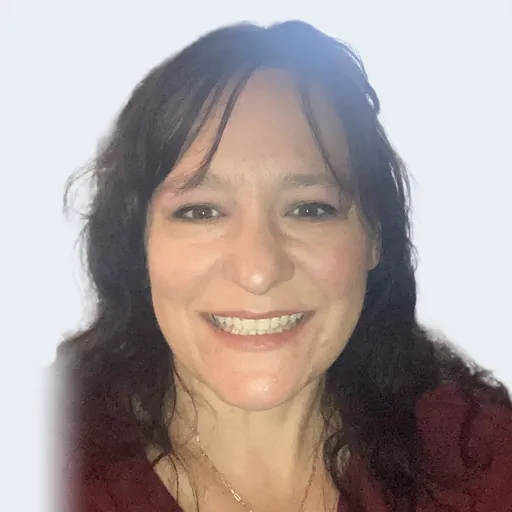
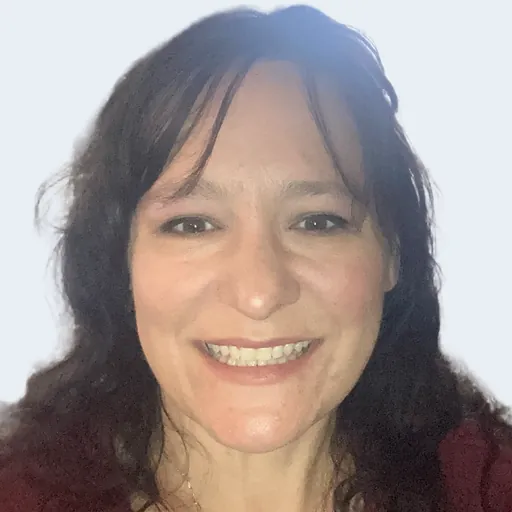
No headshot fades any more
Four tiles faded where their photographs stopped short of the framing.

- Allison's left edge, her jacket with a neighbour's hair behind it, is
  met above the chin and so is never stretched. A new rule, THE CROP,
  enlarges within the shared limit until the tile's own edge cuts it off:
  1.14x, inside what judges read as the same crop. It touches no one else.
- Byungyeon (1.54x, eye line 18% lower so his hair is not cut off),
  Nicolle (1.35x) and Ryan (1.55x) are too tight for the limit and are
  enlarged past it, by the client's choice of a larger face over a fade,
  shown side by side with a normally framed tile. They are listed in
  ENLARGED and come off it when looser photographs arrive.

Claude-Session: https://claude.ai/code/session_01XG348wN5ByY34urU5UZMf6

diff --git a/tools/cutout-headshots.py b/tools/cutout-headshots.py
@@ -93,10 +93,10 @@ had noticed. Checked since: inside every face keep, the stretched cut-out and th
 framing unstretched agree to under a pixel.
 
 A side is stretched, or reached for, only where the person meets it below the chin. A side
-met above the chin is hair, or someone standing beside them: Allison's photo has a
-neighbour's shoulder and hair at its left edge, which the matte keeps joined to Allison.
-Stretching that edge carried a strip of someone else's hair to the tile's edge, so it keeps
-the fade, as it always had.
+met above the chin is hair, or someone standing beside them: Allison's photo has her jacket
+at its left edge with a neighbour's hair behind it, which the matte keeps joined to her.
+Stretching that edge carried a strip of someone else's hair to the tile's edge, so such a
+side is never stretched; THE CROP below deals with it instead.
 
 THE REACH handles a photo that stops further in than the stretch can cover. Its eye line is
 lowered by up to REACH_DROP of the tile and its face enlarged by up to REACH_ZOOM, each by the
@@ -113,6 +113,13 @@ The limits were set by eye, on sheets of each person's options beside people fra
 normally, by independent judges looking at colour and duotone at 200 and 400px. Faces up to
 about 1.2x and eye lines up to 6% lower read as the same crop; 8% lower read as a sunken head,
 and 1.34x as a cramped passport photo with the crown cut off.
+
+THE CROP handles a side met above the chin that the photo's edge still cuts inside the tile.
+It is not stretched (see above), but enlarging alone can push that edge off the tile, where
+the tile's own edge cuts the figure, as it cuts everyone's shoulders. Within the same zoom
+limit, by the least that clears it. Allison's left edge, her jacket with a neighbour's hair
+behind it, faded until October 2026; at 1.14x it runs off the tile like anyone's shoulder.
+Removing the neighbour from the matte instead was tried, and left a hole where her arm was.
 
 THE HEADROOM keeps hair off the tile's top edge. At the shared framing a big head of hair
 can run right up to it: in September 2026 Katie's crown sat 0.3% of the tile below the top,
@@ -132,25 +139,29 @@ Where it landed in September 2026:
   tiles on the page;
 - lowered for the headroom alone: Katie's 3.4%, Angela's 3.0%, Laura's 2.8%, Nikki's 1.5%
   and Lisa's 0.5%.
-Byungyeon's is grounded the same way as Andrew's, but the passport photo cuts the shoulders
-18% in from both sides, and reaching them would take more than the limit, so the sides
-still fade. Andrew's and Byungyeon's crowns stop about 3% below the top rather than 4%: the
-reach and the headroom between them use the whole of REACH_DROP, and the report says so.
-Ryan's photo is cut at the hairline and across the chest, and cannot be grounded within
-the limits without stretching his chin, so it is left exactly as it was. A 1.29x framing
-that grounded him was preferred by every judge to the floating bust, but its stretch
-reached his jaw, and that is not a trade this makes on someone's face. In October 2026 his
-190px copy was replaced by Adelaide University's 540px, which is sharper but the same crop
-cut tighter, and fades the same way; filling the tile with it instead was offered and
-declined, since it makes his face about 1.6x everyone else's.
+Andrew's crown stops about 3% below the top rather than 4%: the reach and the headroom
+between them use the whole of REACH_DROP, and the report says so.
+
+THE EXCEPTIONS are three photographs too tight for any of this, each enlarged past the limit
+because the client chose a larger face over a fade (October 2026), with the trade shown on a
+sheet beside a normally framed tile:
+- Byungyeon's passport photo cuts the shoulders 18% in from both sides: 1.54x, with the eye
+  line 18% lower so the tile does not cut off his hair.
+- Nicolle's selfie cuts through her hair at the left, which THE CROP clears at 1.35x.
+- Ryan's is cut at the hairline and across the chest: 1.55x. A 1.29x framing that grounded
+  him by stretching reached his jaw, which is not a trade this makes on someone's face;
+  enlarging stretches nothing. (Filling the tile this way was declined once, before the
+  fades were weighed against it.)
+Each is listed in ENLARGED, and a looser photograph makes its entry unnecessary.
 
 THE EDGE FADE is what is left: wherever a photograph's own edge still cuts through the
 person, the figure fades to nothing over EDGE_FADE as it approaches that cut. The fade is
 measured from the cut itself — the stretch of the border the matte actually touches — not
 from the whole edge, so a photo cut at the shoulder does not also fade the cheek above it.
 Before the stretch and the reach, nine photos faded like this, and they looked different
-from everyone else. Four still do: Ryan's, Byungyeon's sides, Allison's left edge, and
-Nicolle's (October 2026), whose selfie cuts through her hair at the left. Two shared fades were tried to hide that, and both went:
+from everyone else. Since October 2026 none does: Allison's is cropped, and Byungyeon's,
+Nicolle's and Ryan's are THE EXCEPTIONS. Before that, two shared fades were tried to hide
+the fading few, and both went:
 - A single vignette tuned so every one of those cuts fell where it had already faded
   out. Ryan's chest and Byungyeon's shoulders force it to finish just below everybody's
   chin, which kept 4-13% of anyone's shoulders — 24 floating heads, with the curve cutting
@@ -158,7 +169,7 @@ Nicolle's (October 2026), whose selfie cuts through her hair at the left. Two sh
 - A soft U at the shoulders for everyone, on top of the edge fade. It shipped briefly in
   September 2026. A feather below the shoulders reads as a floating bust, and on the
   seventeen photos that are not cropped short it was a fade with nothing to hide.
-Better originals remain the real fix for everyone the reach enlarges or leaves fading, and
+Better originals remain the real fix for everyone the reach enlarges or crops, and
 nothing here needs to change when they arrive: a photograph loose enough for the framing
 is not touched by any of this. The report names every edge still fading.
 
@@ -199,6 +210,15 @@ FACE_KEEP = 0.10  # THE FACE KEEP: the face box grown by this much of its size o
 REACH_DROP = 0.06 # THE REACH's limits: how far below EYE an eye line may be lowered, as a
 REACH_ZOOM = 1.25 # fraction of the tile, and how much larger than FACE a face may be made
 HEADROOM = 0.04   # THE HEADROOM: the least room between the crown and the tile's top edge
+
+# THE EXCEPTIONS: faces enlarged past REACH_ZOOM, each by the client's choice (Brendan,
+# 6 October 2026), because the fade these photographs otherwise need was judged worse than a
+# face larger than everyone else's. Each replaces REACH_ZOOM, and REACH_DROP where given,
+# for that person, and the reach and the headroom still take the least that removes the fade
+# and keeps the crown in. Byungyeon's needs the lower eye line too: enlarged 1.54x with it
+# held at 6%, the tile cut 8% off the top of his hair. Remove an entry when a looser
+# photograph arrives: it will not need it.
+ENLARGED = {'byungyeon-yun': {'zoom': 1.6, 'drop': 0.2}, 'nicolle-desilva': {'zoom': 1.4}, 'ryan-baker': {'zoom': 1.6}}
 
 
 def pictured():
@@ -339,7 +359,9 @@ def frame(slug):
         for _ in range(30):
             lo, hi = (lo, (lo + hi) / 2) if ok((lo + hi) / 2) else ((lo + hi) / 2, hi)
         return hi
-    zoom_at = lambda t: 1 + (REACH_ZOOM - 1) * t
+    limit = ENLARGED.get(slug, {}).get('zoom', REACH_ZOOM)
+    drop_limit = ENLARGED.get(slug, {}).get('drop', REACH_DROP)
+    zoom_at = lambda t: 1 + (limit - 1) * t
 
     # THE HEADROOM. The crown is the first row of the matte with more than a stray hair on
     # it, counted only across the head (the face box and three quarters of its width either
@@ -351,20 +373,28 @@ def frame(slug):
 
     def drop_at(t, z):
         # The eye line is lowered for THE REACH (its share, t) or for THE HEADROOM, whichever
-        # asks more, and the two together never past REACH_DROP.
-        d = min(REACH_DROP, max(REACH_DROP * t, headroom_drop(z)))
+        # asks more, and the two together never past REACH_DROP (or an exception's own).
+        d = min(drop_limit, max(drop_limit * t, headroom_drop(z)))
         if touches['top']:
             # the photo's top edge sits at (EYE + d) * T - eye_y * s * z; keep it two pixels
             # above the tile, so rounding cannot land it on the first row and fade the crown
             d = min(d, max(0.0, (eye_y * s * z - 2) / T - EYE))
         return d
     short = [k for k in ('bottom', 'left', 'right') if shoulder[k] and not fits(k, 1, drop_at(0, 1) if k == 'bottom' else 0)]
-    unreached = [k for k in short if not fits(k, REACH_ZOOM, drop_at(1, REACH_ZOOM) if k == 'bottom' else 0)]
+    unreached = [k for k in short if not fits(k, limit, drop_at(1, limit) if k == 'bottom' else 0)]
     if 'bottom' in unreached:
         # A figure that still floats gains nothing from a larger face: reach nothing.
         unreached = short
     sides = [k for k in short if k != 'bottom' and k not in unreached]
     z = zoom_at(least(lambda t: all(fits(k, zoom_at(t), 0) for k in sides))) if sides else 1.0
+    # THE CROP. A side met above the chin is never stretched, but enlarging alone can push
+    # the photo's edge there off the tile, where the tile's own edge crops it as it crops
+    # everyone's shoulders. Within the same limit, and by the least that clears it by two
+    # pixels, so the rounding in place() cannot land the cut on the tile's first column.
+    clear = lambda k, zz: edges(zz, 0)[0][k] <= -2
+    crop = [k for k in ('left', 'right') if touches[k] and not shoulder[k] and not clear(k, 1) and clear(k, limit)]
+    if crop:
+        z = max(z, zoom_at(least(lambda t: all(clear(k, zoom_at(t)) for k in crop))))
     d = drop_at(0, z)  # THE HEADROOM's own lowering, whatever the reach does
     if 'bottom' in short and 'bottom' not in unreached:
         tb = least(lambda t: fits('bottom', max(z, zoom_at(t)), drop_at(t, max(z, zoom_at(t)))))
@@ -374,7 +404,7 @@ def frame(slug):
         floor, most = drop_at(0, z), drop_at(tb, z)
         d = floor + (most - floor) * least(lambda u: fits('bottom', z, floor + (most - floor) * u))
     stretch_ok = {k: shoulder[k] and stretchable(k, z, d) for k in ('bottom', 'left', 'right')}
-    reach = {'zoom': round(float(z), 3), 'drop': round(float(d), 4), 'unreached': unreached,
+    reach = {'zoom': round(float(z), 3), 'drop': round(float(d), 4), 'unreached': unreached, 'cropped': crop,
              'headroom': round(float(crown_at(z, d) / T), 4),
              'not_shoulder': [k for k in ('left', 'right') if touches[k] and not shoulder[k]]}
     s, eye = s * z, EYE + d
@@ -501,7 +531,7 @@ def main():
         for s in todo:
             print(f'matting {s}', flush=True)
             subprocess.run([sys.executable, __file__, f'--matte={s}'], check=True)
-    warn, loose, beside, crowded = [], [], [], []
+    warn, loose, beside, crowded, enlarged = [], [], [], [], []
     # scale is against the 512 the tile ships at, so anything over 1 is a photograph being
     # enlarged; "reach" is the enlargement of the face and lowering of the eye line, by THE
     # REACH and THE HEADROOM; "room" is the headroom above the crown;
@@ -518,14 +548,18 @@ def main():
             warn.append(f"{s} ({r['face_kept']:.0%})")
         if r['unreached']:
             loose.append(f"{s} ({', '.join(r['unreached'])})")
-        if r['not_shoulder']:
-            beside.append(f"{s} ({', '.join(r['not_shoulder'])})")
+        if [k for k in r['not_shoulder'] if k not in r['cropped'] and k in r['cuts']]:
+            beside.append(f"{s} ({', '.join(k for k in r['not_shoulder'] if k not in r['cropped'] and k in r['cuts'])})")
+        if s in ENLARGED:
+            enlarged.append(f"{s} ({r['zoom']:.2f}x)")
         if r['headroom'] < HEADROOM - 0.0005:
             crowded.append(f"{s} ({r['headroom']:.1%})")
     if loose:
         print(f'\nbeyond the reach, so still fading: {", ".join(loose)}. A looser original is the fix.')
     if beside:
-        print(f'\nmet above the chin, so not a shoulder and left to the fade: {", ".join(beside)}.')
+        print(f'\nmet above the chin and too far in to crop off, so left to the fade: {", ".join(beside)}.')
+    if enlarged:
+        print(f'\nenlarged past the shared limit by the client\'s choice (THE EXCEPTIONS): {", ".join(enlarged)}.')
     if crowded:
         print(f'\nless than {HEADROOM:.0%} above the crown, the lowering having reached its limit: {", ".join(crowded)}.')
     if warn:

diff --git a/wordpress-handoff/sections/leadership.md b/wordpress-handoff/sections/leadership.md
@@ -124,10 +124,10 @@ empty tile and a photographed one sit on one colour.
 Do not re-crop them — no Media Library "crop to square", no theme `object-position`. The
 framing is what makes photographs by thirty-odd different photographers read as one team, and
 it is already done. They are 6–36 KB each. A photograph that stops a little short of where
-the framing wants it is stretched or enlarged within limits; where it stops further in
-than that, the figure fades out where the photo ends (Ryan Baker's bottom, left and top, Byungyeon
-Yun's sides, and Nicolle DeSilva's and Allison Rapoport's left edges). That is baked into the
-file, not an effect to reproduce, and it goes away when a looser original replaces one.
+the framing wants it is stretched or enlarged within limits. Three photographs too tight for
+those limits (Byungyeon Yun's, Nicolle DeSilva's and Ryan Baker's) are enlarged further, by
+the client's choice, rather than fade where the photo ends; no tile fades today. All of it is
+baked into the file, not an effect to reproduce.
 
 They are made in two steps, and the split is on purpose. `tools/cutout-headshots.py`
 does the slow part once — a matting model, face and eye detection, the framing — and
